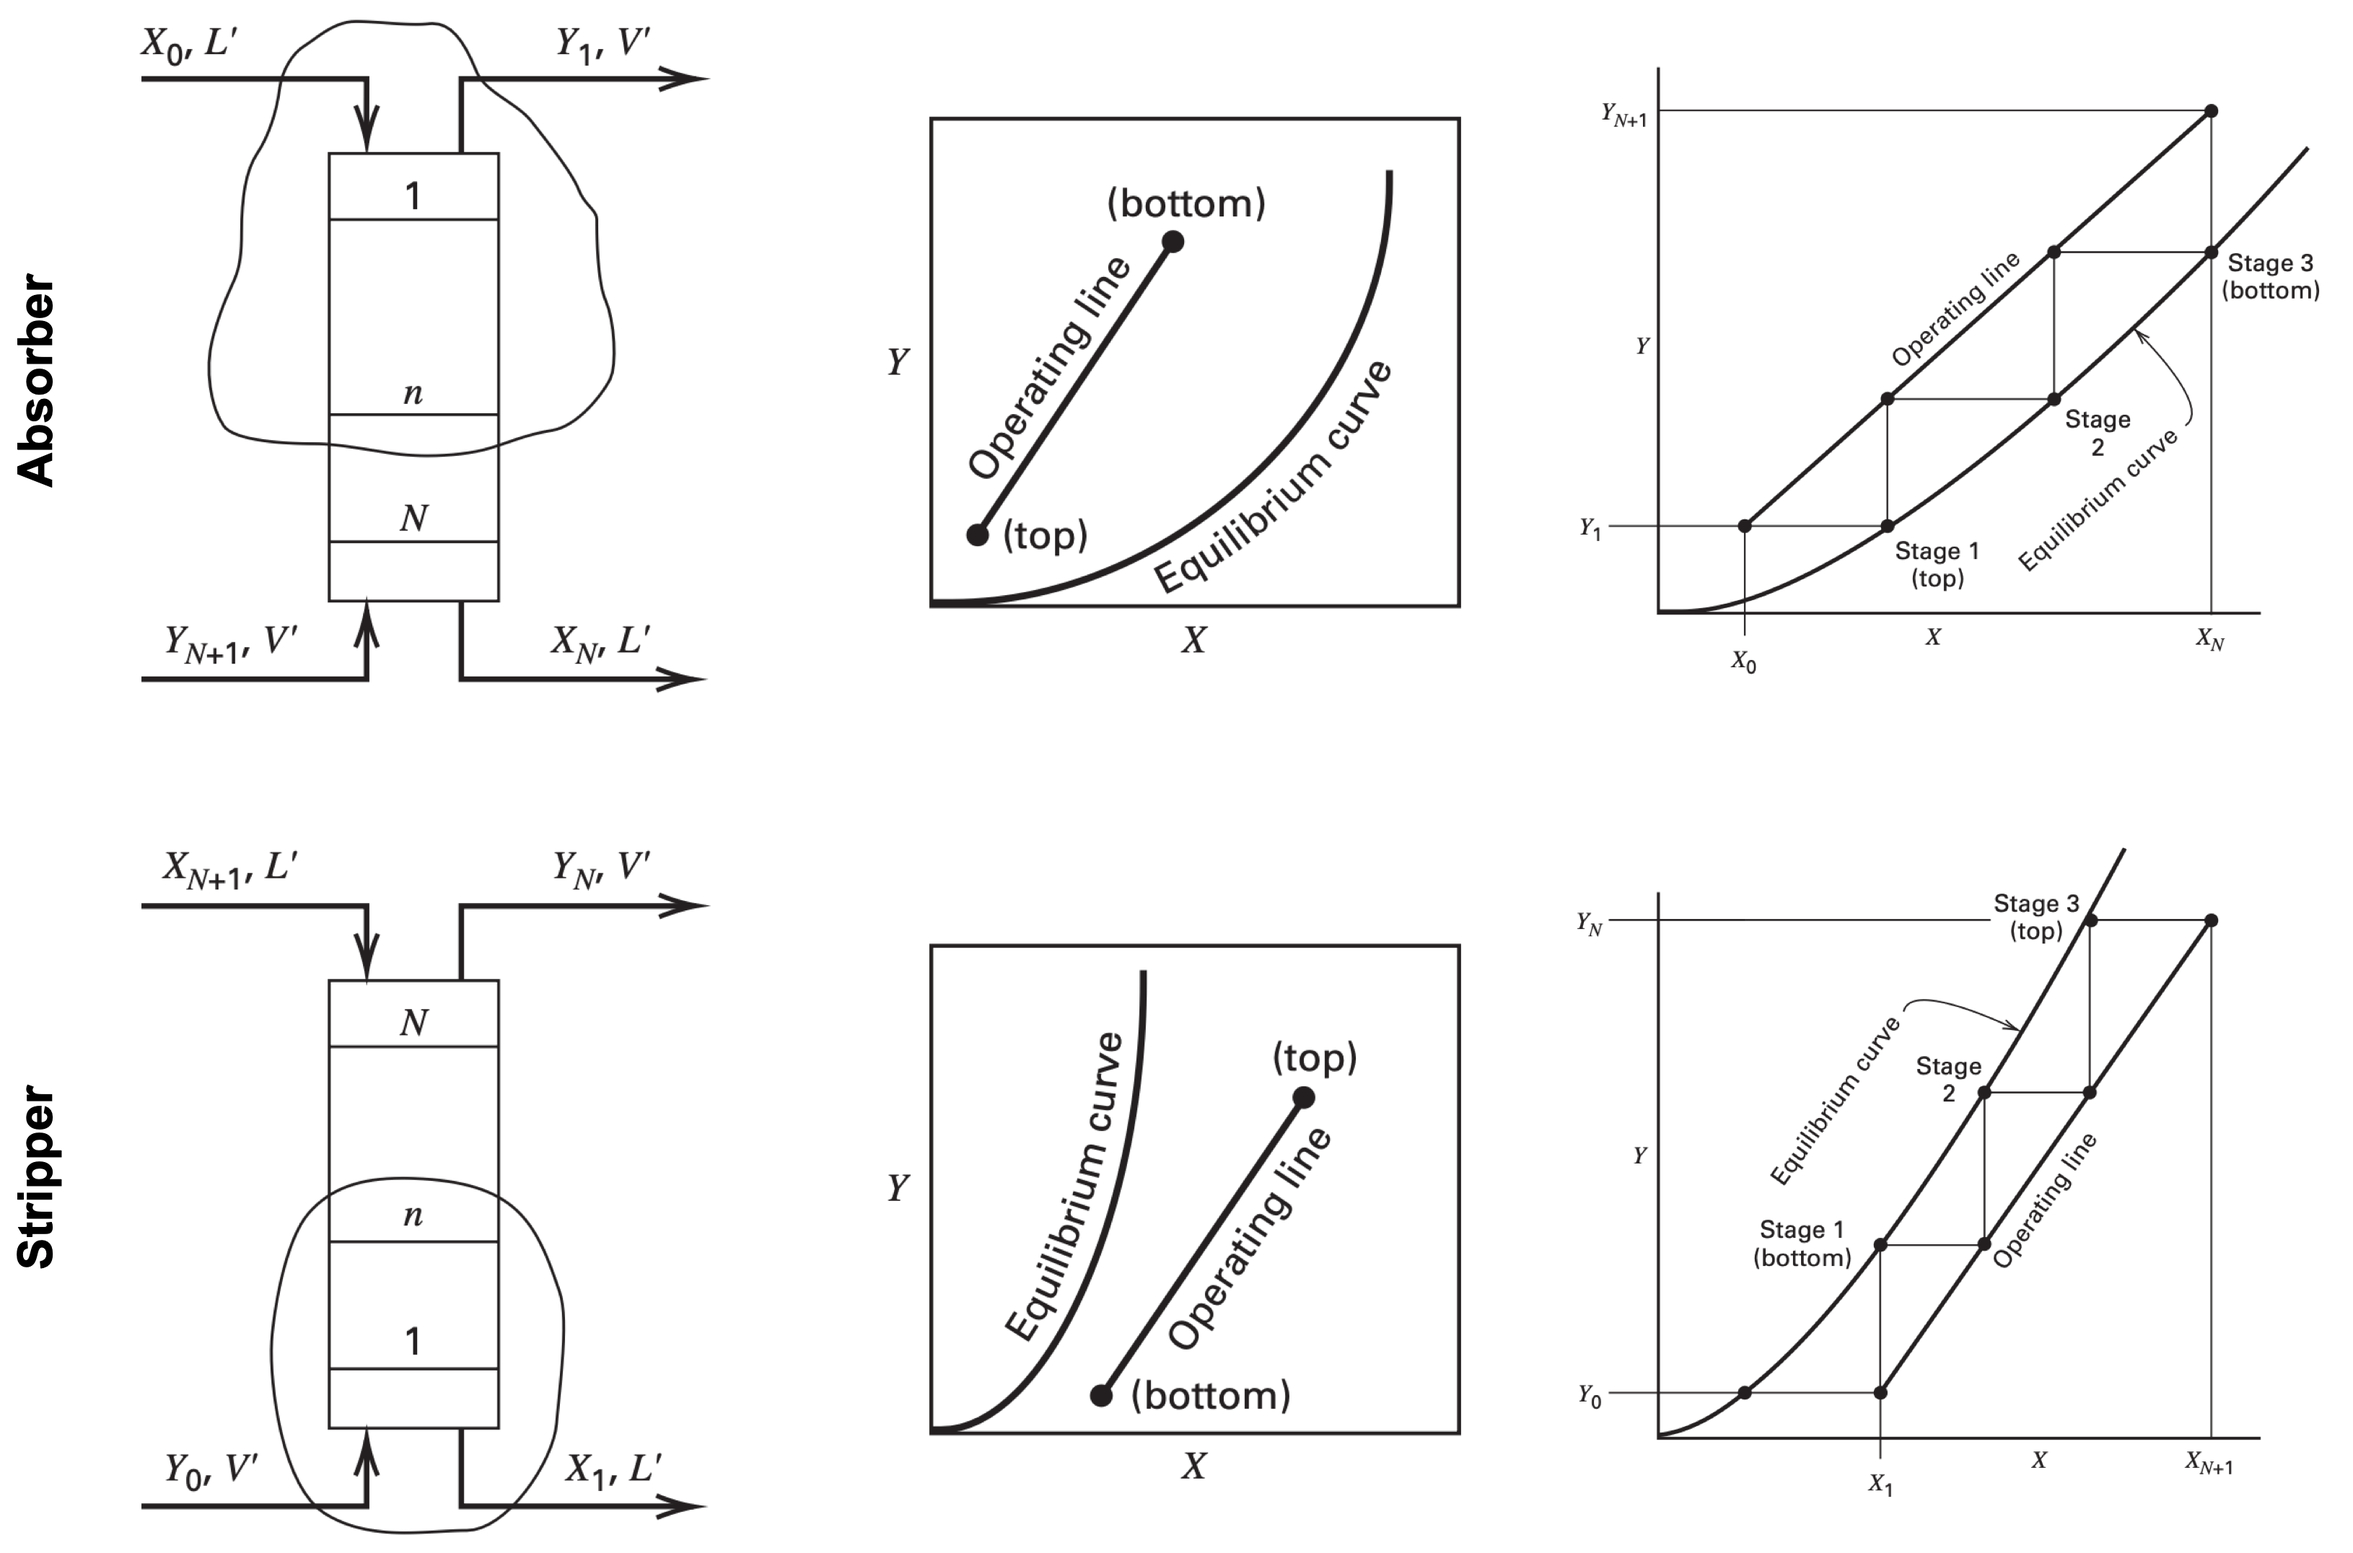
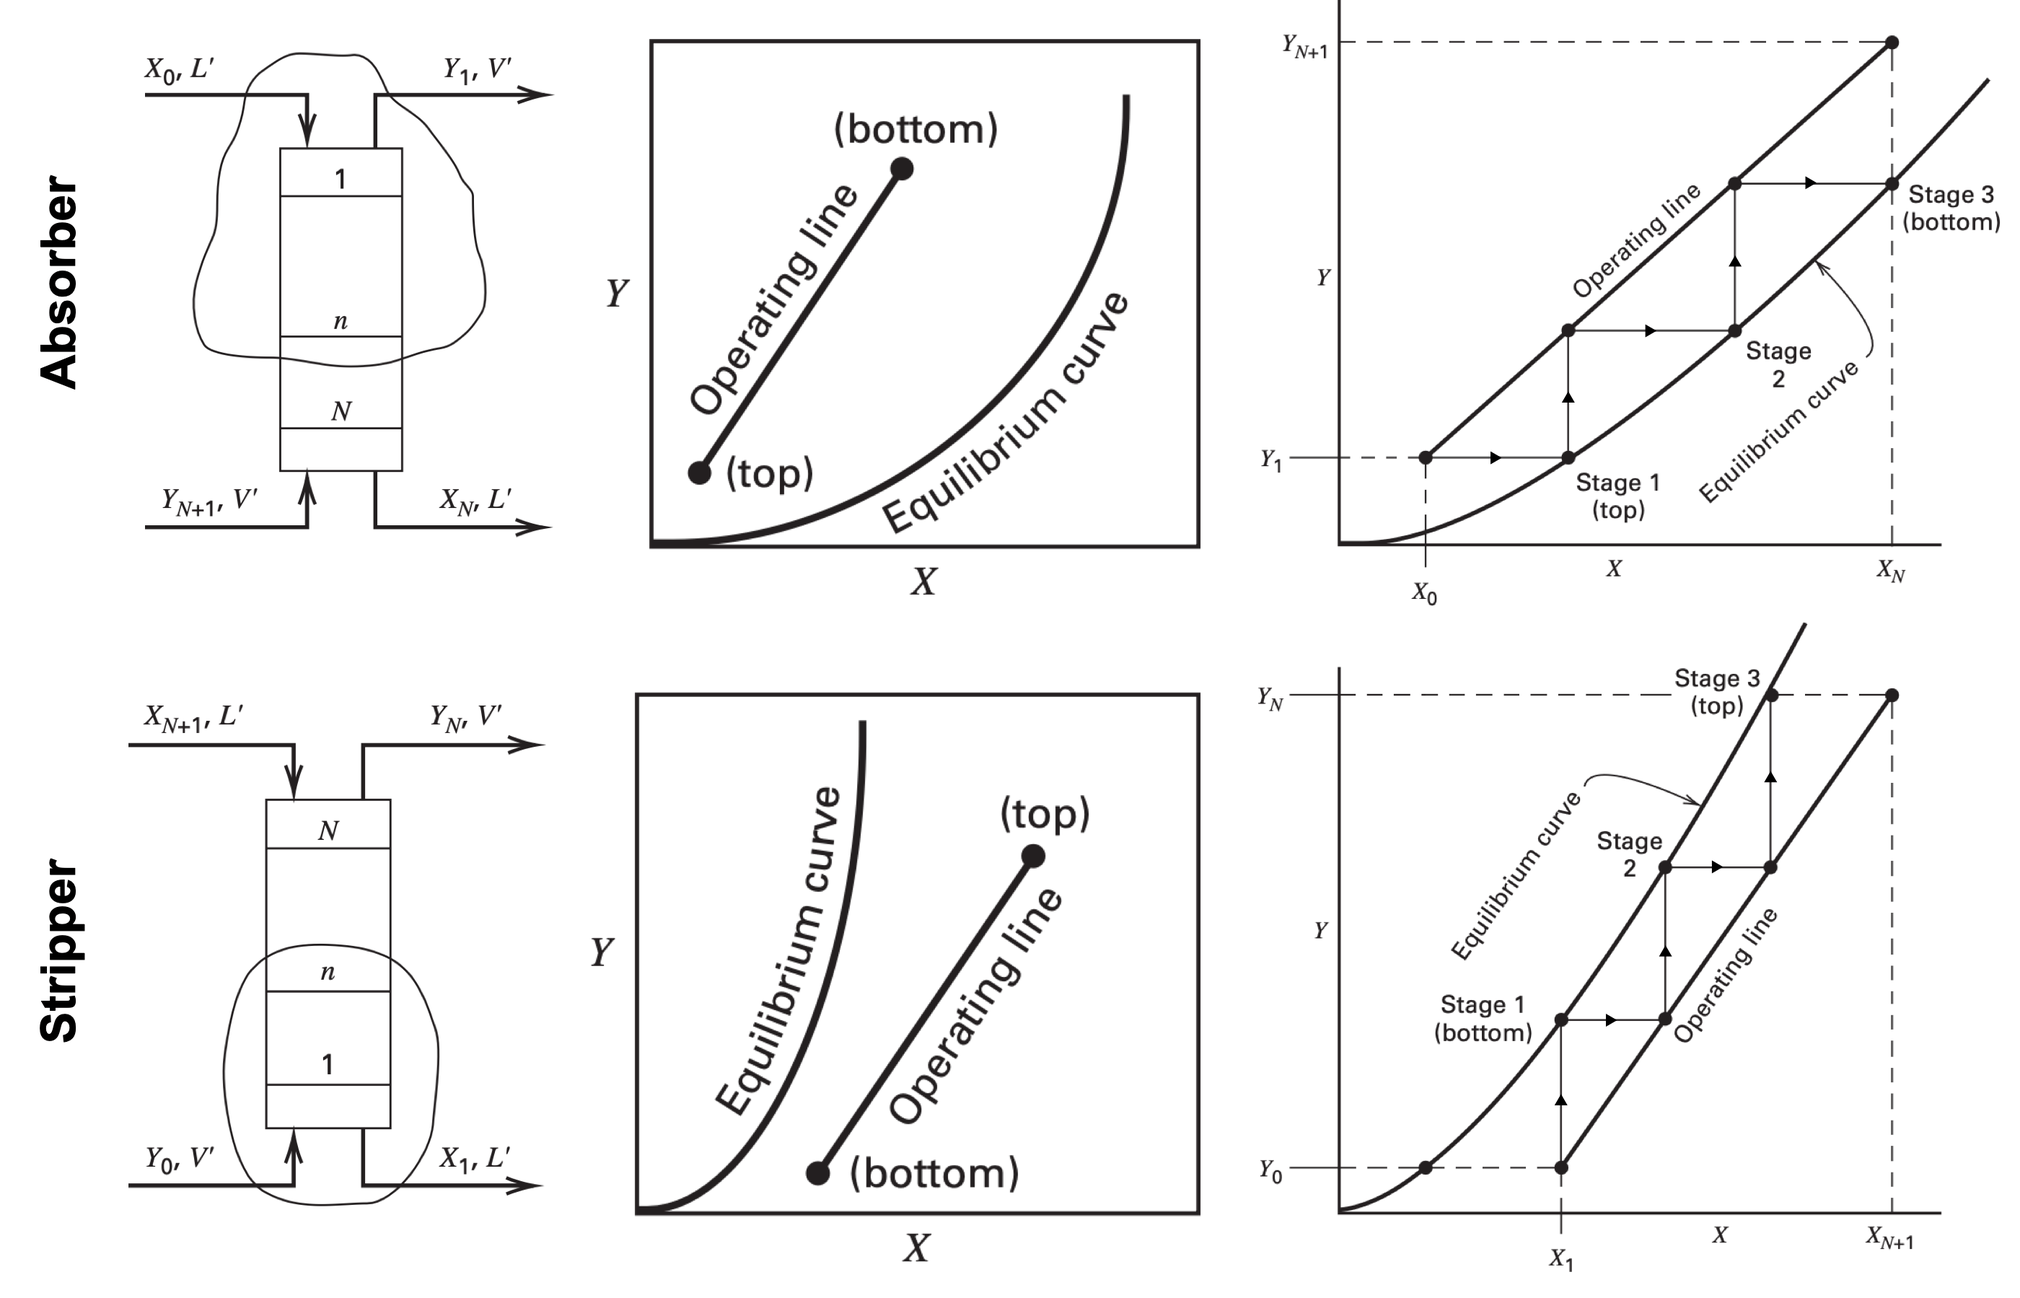
Add figures, symbol conventions, and graphical methods

diff --git a/content/cheme/cheme435/index.md b/content/cheme/cheme435/index.md
@@ -138,6 +138,7 @@ lightgallery: true
 |Mass transfer coefficient (no bulk flow)|$k_c = \dfrac{D_{AB}}{\delta}$|
 |Mass transfer coefficient (with bulk flow)|$k\'\_c = \dfrac{D_{AB}}{\delta (1 - x_A)\_{\mathrm{LM}}}$|
 |Molar flux of species A <br/> ★ Interface (i), bulk (b)|$N_A = \pm k_c (c_{A, i} - c_{A, b}) \newline N_A = \pm k\'\_c (c_{A, i} - c_{A, b})$|
+|Film thickness|$\delta = \dfrac{D_{AB}}{k_c} = \dfrac{D_{AB}}{k\'_c (1 - x_A)\_{\mathrm{LM}}}$|
 
 #### Mass transfer coefficient and driving force
 
@@ -177,6 +178,19 @@ lightgallery: true
 
 ### Rachford-Rice algorithm for isothermal flash calculation
 
+{{< admonition type=info title="Symbol Conventions" open=false >}}
+
+- **Molar** flow rates
+  - $F$ - Feed
+  - $V$ - Output vapor
+  - $L$ - Output liquid
+- **Molar** fraction of component i
+  - $x_i$ - In the liquid
+  - $y_i$ - In the vapor
+  - $z_i$ - Overall
+
+{{< /admonition >}}
+
 |Description|Equations|
 |-:|:-|
 |Road map|Known -  $K_i, z_i, F$ <br/> Solve - $\Psi \to V \to L \to x_i, y_i \to Q$|
@@ -190,6 +204,8 @@ lightgallery: true
 |Liquid mole fraction|$y_i = \dfrac{z_i K_i}{1 + \Psi(K_i - 1)}$|
 |Heat|$Q = h_V V + h_L L - h_F F$|
 
+{{< image src="/cheme/cheme435/cheme435-flash-operations.png" caption="Flash operations of flash vaporization and partial condensation. (*Separation Process Principles with Applications Using Process Simulators* 4e by Seader p93, Figures 4.8, 4.9.)" >}}
+
 ### Bubble and dew point calculations
 
 |Description|Equations|
@@ -198,6 +214,27 @@ lightgallery: true
 |Dew point|$\Psi = 1 \newline \sum \dfrac{z_i}{K_i} = 1 \newline \sum x_i P_i^* (T) = P$|
 
 ### Ternary liquid-liquid extraction
+
+{{< admonition type=info title="Symbol Conventions" open=false >}}
+
+- Components
+  - $A$ - Carrier (feed solvent)
+  - $B$ - Solute
+  - $C$ - Solvent
+- **Mass** flow rates
+  - $F$ - Feed
+  - $S$ - Solvent
+  - $E$ - Extract (Majority of solvent $C$ carrier extracted solute $B$)
+  - $R$ - Raffinate
+- **Mass** fraction of component i
+  - $x_i$ - In the liquid
+  - $y_i$ - In the vapor
+  - $z_i$ - Overall
+- **Mass** ratio of component i
+  - $X_i$ - In the liquid
+  - $Y_i$ - In the vapor
+
+{{< /admonition >}}
 
 |Description|Equations|
 |-:|:-|
@@ -208,28 +245,33 @@ lightgallery: true
 |Extraction factor of solute B|$\mathcal{E} = \dfrac{K\'_{D_B} S}{F_A}$|
 |Fraction of solute B unextracted|$\dfrac{X_{R, B}}{X_{F, B}} = \dfrac{1}{1 + \mathcal{E}}$|
 
+{{< image src="/cheme/cheme435/cheme435-liquid-liquid-extraction.png" caption="Liquid-liquid extraction of ternary mixture. (*Separation Process Principles with Applications Using Process Simulators* 4e by Seader p98, Figure 4.12.)" >}}
+
 #### Ternary phase diagram
 
 General principles are the same for different types of ternary phase diagrams. Here, algorithm for using **equilateral** ternary phase diagrams is presented.
 
-- Identify chemical species at the apexes: feed solvent (A), feed solute (B), and pure solvent (S).
-  - Apexes are pure components.
-  - Lines parallel to the apex are used to read values.
-  - Label each side of the triangle according to the apex.
+- Identify chemical species at the apexes: feed solvent (A), feed solute (B), and pure solvent (S)
+  - Apexes are pure components
+  - Lines parallel to the apex are used to read values
+  - Label each side of the triangle according to the apex
 - Identify compositions of entering streams: feed (F) and solvent (S)
-  - Assume feed only contains A and B, and solvent is pure S.
+  - Assume feed only contains A and B, and solvent is pure S
   - Calculate composition of mixture (M) with component balances
     - $x_{M, A} = \dfrac{x_{F, A} F}{F + S}, \quad x_{M, B} = \dfrac{x_{F, B} F}{F + S}, \quad x_{M, C} = \dfrac{S}{F + S}$
 - Interpolate tie line on the ternary phase diagram
 - Identify compositions of exiting streams: extract (E) and raffinate (R)
-  - E and R lies on the intersection of tie line and phase boundary line.
+  - E and R lies on the intersection of tie line and miscibility boundary (binodal) curve
   - E has a larger S component than R (extracted component is dissolved in solvent), being closer to point S
+- Identify plait point (P)
+  - P lies between E and R on the miscibility boundary curve
+  - P the the point where E and R merge together and tie line collapses to a point
 - Determine flow rate ratio with inverse level rule
   - $\dfrac{E}{F + S} = \dfrac{E}{E + R} = \dfrac{\overline{MR}}{\overline{ER}}, \quad \dfrac{E}{R} = \dfrac{\overline{MR}}{\overline{ME}}$
 
 <br/>
 
-{{< image src="/cheme/cheme435/cheme435-ternary-phase-diagram.png" caption="Equilateral ternary phase diagram. (Separation Process Principles with Applications Using Process Simulators 4e by Seader p101, Figure 4.14.)" >}}
+{{< image src="/cheme/cheme435/cheme435-ternary-phase-diagram.png" caption="Sample equilateral ternary phase diagram. (*Separation Process Principles with Applications Using Process Simulators* 4e by Seader p101, Figure 4.14.)" >}}
 
 ## Multistage Cascades
 
@@ -242,20 +284,49 @@ General principles are the same for different types of ternary phase diagrams. H
 |Countercurrent cascade ($N$ stages)|$\dfrac{X_{R, B}}{X_{F, B}} = \left[\displaystyle\sum_{n = 0}^N \mathcal{E}^n\right]^{-1} = \dfrac{\mathcal{E} - 1}{\mathcal{E}^{N+1} - 1}$|
 |Countercurrent cascade ($\infty$ stages)|$\begin{cases} \dfrac{X_{\infty, B}}{X_{F, B}} = 0, & \mathcal{E} \in [1, \infty) \\\ \dfrac{X_{\infty, B}}{X_{F, B}} = 1 - \mathcal{E}, & \mathcal{E} \in (-\infty, 1) \end{cases}$|
 
+{{< image src="/cheme/cheme435/cheme435-multistage-cascades.png" caption="Multistage arrangements of cocurrent, crosscurrent, and countercurrent. (*Separation Process Principles with Applications Using Process Simulators* 4e by Seader p120, Figures 5.4.)" >}}
+
 ## Absorption and Stripping
 
 ### Graphical method for trayed towers
 
-|Description|Equations|
-|-:|:-|
-|Molar flow rate of solute-free absorbent|$L'$|
-|Molar flow rate of solute-free gas (carrier gas)|$V'$|
-|Mass ratio of solute to solvent-free absorbent in the liquid|$X$|
-|Mass ration of solute to solute-free gas in the vapor|$Y$|
-|Equilibrium curve|$K_n = \dfrac{y_n}{x_n} = \dfrac{Y_n}{X_n}\dfrac{1 + X_n}{1 + Y_n}$|
-|Slope of operating line|$\dfrac{L\'}{V\'}$|
+{{< admonition type=info title="Symbol Conventions" open=false >}}
 
-{{< image src="/cheme/cheme435/cheme435-absorber-stripper.png" caption="Equilibrium curve and operating lines of absorber and stripper. (Separation Process Principles with Applications Using Process Simulators 4e by Seader p144, 146, Figures 6.9, 6.12.)" >}}
+- **Molar** flow rates
+  - $L$ - Total liquid feed
+  - $V$ - Total gas feed
+  - $L\'$ - solute-free absorbent - constant at each stage
+  - $V\'$ - solute-free gas (carrier gas) - constant at each stage
+- **Mole** ratio of solute to solute-free absorbent
+  - $X$ - In the liquid
+  - $Y$ - In the vapor
+
+{{< /admonition >}}
+
+{{< image src="/cheme/cheme435/cheme435-absorber-stripper.png" caption="Equilibrium curve and operating lines of absorber and stripper. (*Separation Process Principles with Applications Using Process Simulators* 4e by Seader p144, 146, Figures 6.9, 6.12.)" >}}
+
+- Construct the equilibrium curve from thermodynamics
+  - $K_n = \dfrac{y_n}{x_n} = \dfrac{Y_n}{X_n}\dfrac{1 + X_n}{1 + Y_n} \implies Y_n = \dfrac{K_n X_n}{1 + X_n - K_n X_n}$
+- Identify absorption and stripping process
+  - Absorption - Use liquid to remove components from gas mixture
+  - Stripping - Use gas to remove components from liquid mixture
+- Construct operating line for $\infty$ stages for $L\'\_{\min}$ or $V\'\_{\min}$
+  - Absorption ($L\'\_{\min}$)
+    - Identify (liquid in, gas out) = $(X_0, Y_1)$
+    - Identify (liquid out, gas in) = $(X_N, Y_{N+1})$ with minimum operating line intersects and ends at the equilibrium curve
+  - Stripping ($V\'\_{\min}$)
+    - Identify (gas in, liquid out) = $(X_1, Y_0)$
+    - Identify (liquid out, gas in) = $(X_{N+1}, Y_N)$ with minimum  operating line intersects and ends at the equilibrium curve
+  - Slope of operating line = $\dfrac{L\'}{V\'}$
+- Determine number of equilibrium stages for $L\'$ and $V\'$
+  - Absorption ($L\'$)
+    - Construct operating line with point (liquid in, gas out) = $(X_0, Y_1)$ and slope = $\dfrac{L\'}{V\'}$
+    - From $(X_0, Y_1)$, draw horizontal line toward the equilibrium curve and vertical lines back to the operating line until it reaches $(X_N, Y_{N+1})$
+  - Stripping ($V\'$)
+    - Construct operating line with point (gas in, liquid out) = $(X_1, Y_0)$ and slope = $\dfrac{L\'}{V\'}$
+    - From $(X_1, Y_0)$, draw horizontal line toward the equilibrium curve and vertical lines back to the operating line until it reaches $(X_{N+1}, Y_N)$
+  - The number of equilibrium stages is the number of intersections on the equilibrium curve
+    - Interpolate number of stages if not exact
 
 #### Absorption
 
@@ -294,47 +365,50 @@ General principles are the same for different types of ternary phase diagrams. H
 
 {{< admonition type=info title="Symbol Conventions" open=false >}}
 
-- Molar flow rates
+- **Molar** flow rates
   - $F$ - Feed
   - $D$ - Distillate
   - $B$ - Bottoms
-  - $L$ - Liquid in the rectifying section
+  - $L$ - Liquid in the rectifying section, Reflux
   - $V$ - Vapor in the rectifying section
   - $\overline{L}$ - Liquid in the stripping section
-  - $\overline{V}$ - Vapor in the stripping section
-- Ratio
-  - $\alpha_{1, 2}$ - Relative volatility
-  - $R$ - Reflux ratio
-  - $V_B$ - Boilup ratio
-- Mole fraction of the light key component
+  - $\overline{V}$ - Vapor in the stripping section, Boilup
+- **Mole** fraction of the light key component
   - $x$ - In the liquid
   - $y$ - In the vapor
   - $x_D$ - In the distillate
   - $x_B$ - In the bottoms
+- Ratio
+  - $\alpha_{1, 2}$ - Relative volatility
+  - $R$ - Reflux ratio
+  - $V_B$ - Boilup ratio
+
 {{< /admonition >}}
 
 |Description|Equations|
 |-:|:-|
 |McCabe-Thiele assumptions|1. Equal and constant $\Delta H_{\text{vap}}$ <br/> 2. Negligible $C_P \Delta T$ and $\Delta H_{\text{mix}}$ <br/> 3. Insulated column $q = 0$ <br/> 4. No pressure drop $\Delta P = 0$|
-|Constant molar overflow|$L_1 = L_i = L \newline V_1 = V_i = V$|
+|Constant molar overflow in rectifying section|$L_1 = L_i = L \newline V_1 = V_i = V$|
+|Constant molar overflow in stripping section|$\overline{L}_1 = \overline{L}_i = \overline{L} \newline \overline{V}_1 = \overline{V}_i = \overline{V}$|
+|Non-equal flow rate in rectifying and stripping sections|$L \not= \overline{L} \newline V \not= \overline{V}$|
 |Reflux ratio|$R = \dfrac{L}{D}$|
 |Boilup ratio|$V_B = \dfrac{\overline{V}}{B}$|
 |Equilibrium curve|$y_1 = \dfrac{\alpha_{1, 2}x_1}{1 + x_1(\alpha_{1, 2} - 1)}$|
 |Rectifying section operating line|$y = \left(\dfrac{R}{R + 1}\right)x + \left(\dfrac{x_D}{R + 1}\right)$|
-|Rectifying section operating line|$y = \left(\dfrac{V_B + 1}{V_B}\right)x + \left(\dfrac{x_B}{V_B}\right)$|
+|Stripping section operating line|$y = \left(\dfrac{V_B + 1}{V_B}\right)x - \left(\dfrac{x_B}{V_B}\right)$|
 |$q$-parameter|$\begin{cases} q > 1 & \text{subcooled liq} \\\ q = 1 & \text{saturated liq (bubble pt)} \\\ q \in (0, 1) & \text{liq + vap} \\\ q = 0 & \text{saturated vap (dew pt)} \\\ q < 0 & \text{superheated vap} \end{cases}$|
 |$q$-parameter|$q = \dfrac{\overline{L} - L}{F} = 1 + \dfrac{\overline{V} - V}{F}$|
 |$q$-line|$y = \left(\dfrac{q}{q - 1}\right)x + \left(\dfrac{z_F}{q - 1}\right)$|
 
-{{< image src="/cheme/cheme435/cheme435-distillation.png" caption="Equilibrium curve and operating lines of rectifying and stripping sections of distillation column. Optimal feed stage is indicated by the transition between operating lines on the equilibrium curve. (Separation Process Principles with Applications Using Process Simulators 4e by Seader p195, 196, 197, 200, Figures 7.5, 7.6, 7.7, 7.10.)" >}}
-
-### Limiting conditions
+#### Limiting conditions
 
 |Description|Equations|
 |-:|:-|
 |Total reflux <br/> (Useless)|$R_\infty = \infty \newline N_{\min} = 0 \newline L = V \newline D = B = 0$|
 |Minimum reflux|$R_{\min} = \dfrac{(L/V)\_{\min}}{1 - (L/V)\_{\min}} \newline N_\infty = \infty \newline V_{B, \min} = \dfrac{1}{(\overline{L}/\overline{V})_{\min} - 1}$|
 |Perfect separation|$x_D = 1, \quad x_B = 0 \newline R \ge R_{\min}  \begin{cases} R_{\min} = \dfrac{1}{z_F (\alpha_{1, 2} - 1)} & q = 1 \\\ R_{\min} = \dfrac{\alpha_{1, 2}}{z_F (\alpha_{1, 2} - 1)} - 1 & q = 0 \end{cases}$|
+
+{{< image src="/cheme/cheme435/cheme435-distillation.png" caption="Equilibrium curve and operating lines of rectifying and stripping sections of distillation column. Optimal feed stage is indicated by the transition between operating lines on the equilibrium curve. (*Separation Process Principles with Applications Using Process Simulators* 4e by Seader p195, 196, 197, 200, Figures 7.5, 7.6, 7.7, 7.10.)" >}}
 
 ## Membrane Separations
 

diff --git a/README.md b/README.md
@@ -87,7 +87,7 @@ If you find any mistake, please feel free to [raise an issue](https://github.com
 |-|-|-|-|:-:|
 |CHEM E 330 <br/> Transport Process I|[pdf](static/pdf/cheme/cheme330.pdf)|[html](https://equation-sheets.netlify.app/cheme/cheme330/)|**Transport fundamentals** - rate laws, transport coefficients, shell balance method, generalization to 3D <br/> **Fluid mechanics** - Navier-Stokes equation, top-down method, turbulence, dynamic similarity, dimensional analysis, Bernoulli analysis, microfluidics|:white_check_mark:|
 |CHEM E 340 <br/> Transport Process II|[pdf]|[html](https://equation-sheets.netlify.app/cheme/cheme340/)|**Heat transfer** - 1D conduction, 2D conduction, transient heat conduction, convection, boiling and condensation, heat exchangers, radiation|Wi22 completed <br/> :pick:|
-|CHEM E 435 <br/> Transport Process III|[pdf]|[html](https://equation-sheets.netlify.app/cheme/cheme435/)|**Separation process and mass transfer** - mass transfer and diffusion, single stage equilibrium, multistage cascade, absorption and stripping, distillation, membrane separations|:white_check_mark:|
+|CHEM E 435 <br/> Transport Process III|[pdf]|[html](https://equation-sheets.netlify.app/cheme/cheme435/)|**Separation process and mass transfer** - mass transfer and diffusion, single equilibrium stages, multistage cascades, absorption and stripping, distillation, membrane separations|:white_check_mark:|
 
 ### Chemical Reaction Engineering
 
